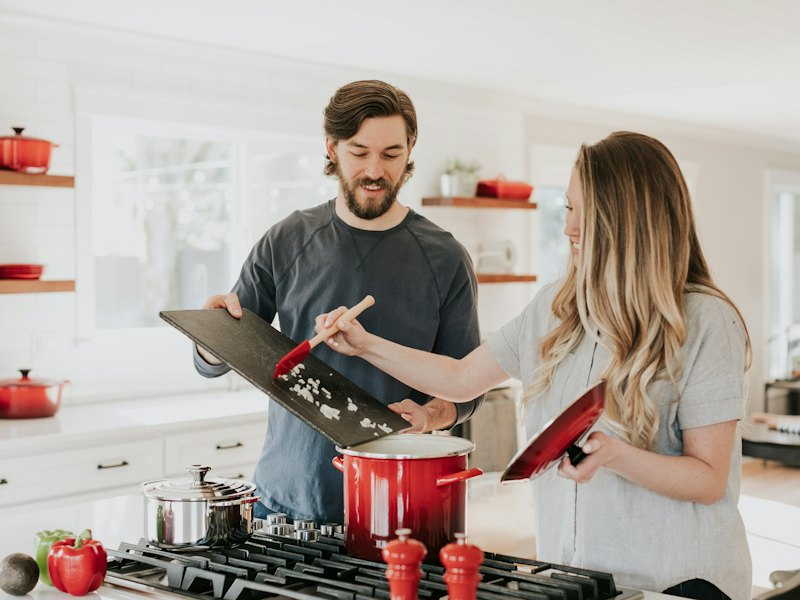
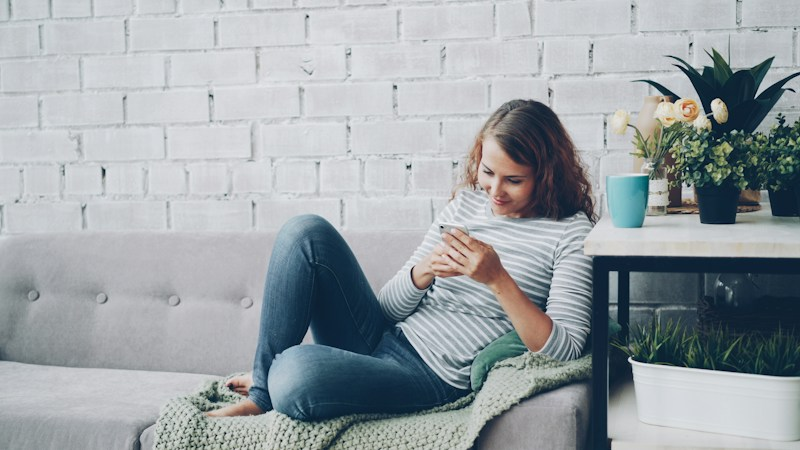
USP: Bratislava pre lokálne porovnanie, nová fotka pre Zadarmo

diff --git a/index.html b/index.html
@@ -132,7 +132,7 @@
             </div>
           </article>
           <article class="benefit">
-            <div class="benefit__img"><img width="800" height="600" src="assets/usp-lokalne-porovnanie.jpg" alt="Ulica s podobnými rodinnými domami na lokálne porovnanie cien" loading="lazy" /></div>
+            <div class="benefit__img"><img width="800" height="1000" src="assets/usp-lokalne-porovnanie.jpg" style="object-position: 50% 74%" alt="Bratislava s hradom a obytnými štvrťami, lokálne porovnanie cien nehnuteľností" loading="lazy" /></div>
             <div class="benefit__body">
               <div class="benefit__icon"><i data-icon="mapPin" data-size="22"></i></div>
               <h3>Lokálne porovnanie</h3>
@@ -140,7 +140,7 @@
             </div>
           </article>
           <article class="benefit">
-            <div class="benefit__img"><img width="800" height="600" src="assets/usp-zadarmo.jpg" alt="Spokojný pár doma po bezplatnom ocenení nehnuteľnosti" loading="lazy" /></div>
+            <div class="benefit__img"><img width="800" height="450" src="assets/usp-zadarmo.jpg" alt="Žena doma na gauči si v mobile zisťuje cenu nehnuteľnosti zadarmo" loading="lazy" /></div>
             <div class="benefit__body">
               <div class="benefit__icon"><i data-icon="gift" data-size="22"></i></div>
               <h3>Zadarmo a bez záväzkov</h3>
